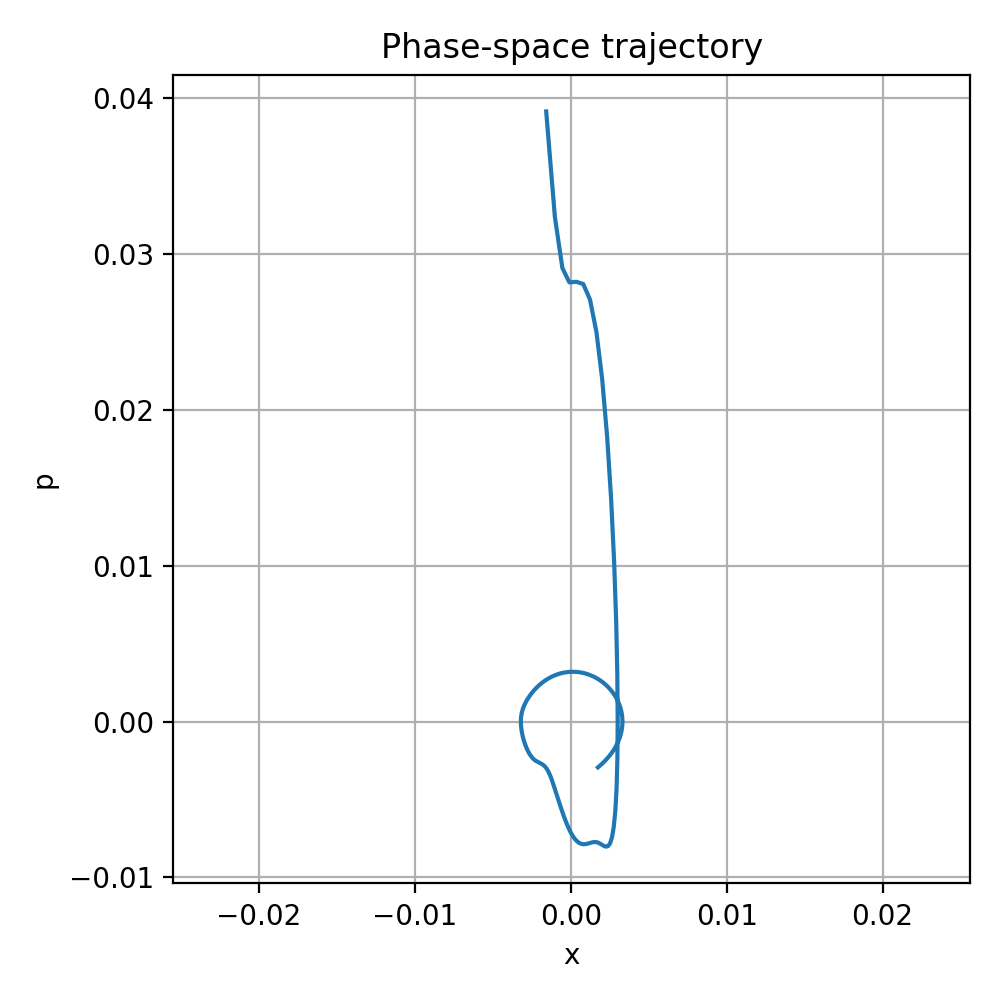
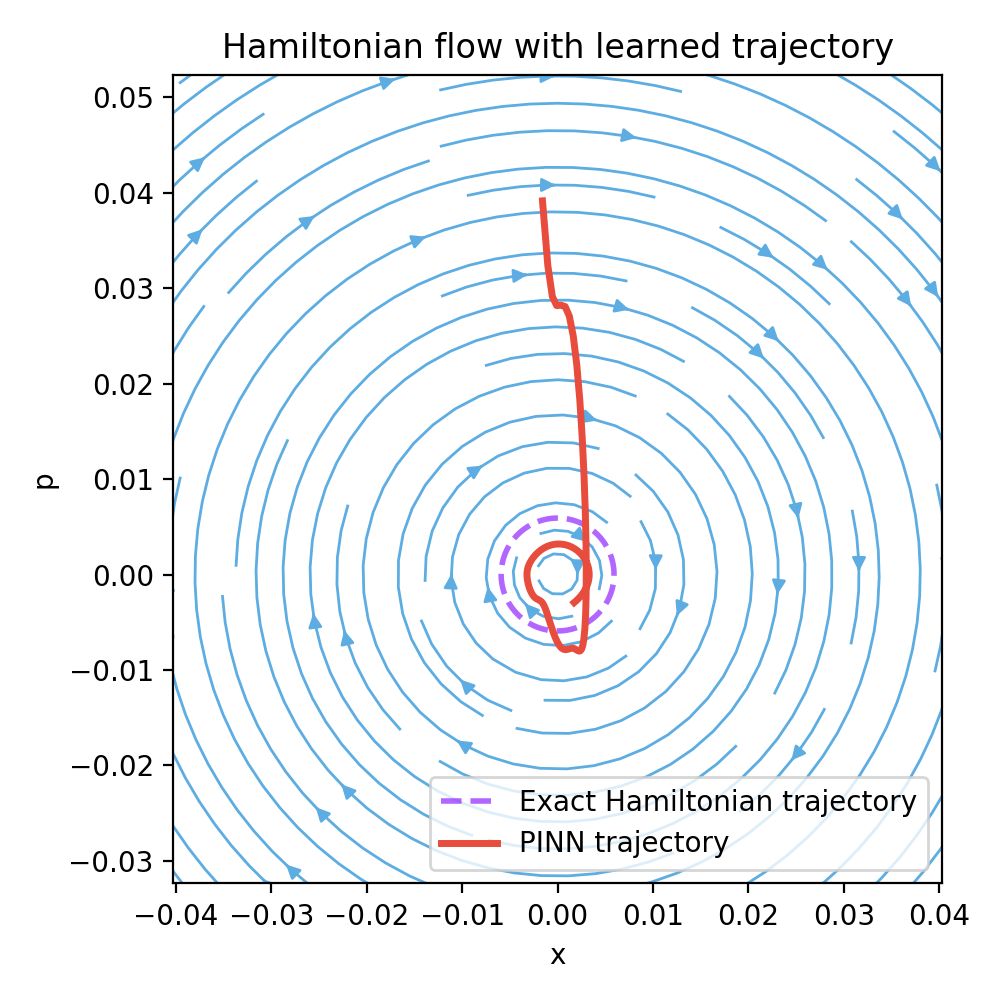
created a phase space portrait of the hamiltonian flow field for the 1D SHO and the learned trajectory plotted over it.

diff --git a/artifacts/figures.md b/artifacts/figures.md
@@ -16,10 +16,18 @@ Figure summary here.
 Figure summary here
 
 ---
-## Figure 4 - Phase Space Trajectory
+## Figure 4 - Phase Space Trajectory Plotted over Hamiltonian Flow Fields 
 ![Phase Space Trajectory](phase_space.png)
-Figure summary here
-- 🤖  Apparently, this visually encodes:
-  - Bivector-generated rotation
-  - Sympletctic intuition
-  - Hamiltonian flow wihtout formal machinery
+> The PINN learns a single phase-space trajectory consistent with the Hamiltonian equations of motion. The analytic flow field (blue streamlines)  and contant-energy orbit (purple dotted)are shown for reference and are not learned by the model.
+ 
+**Analytic flow fields** $$\dot{x}=p, \quad \dot{p}=-\omega^2 x $$
+
+**Constant-energy orbit** $$H(x,p)=\text{const}$$
+
+**PINN-Trajectory** $\rightarrow$ learned dynamics.
+
+- [ ] Do my best to understand this:
+  - The trajectory visually encodes:
+    - Bivector-generated rotation
+    - Sympletctic intuition
+    - Hamiltonian flow wihtout formal machiner✔
